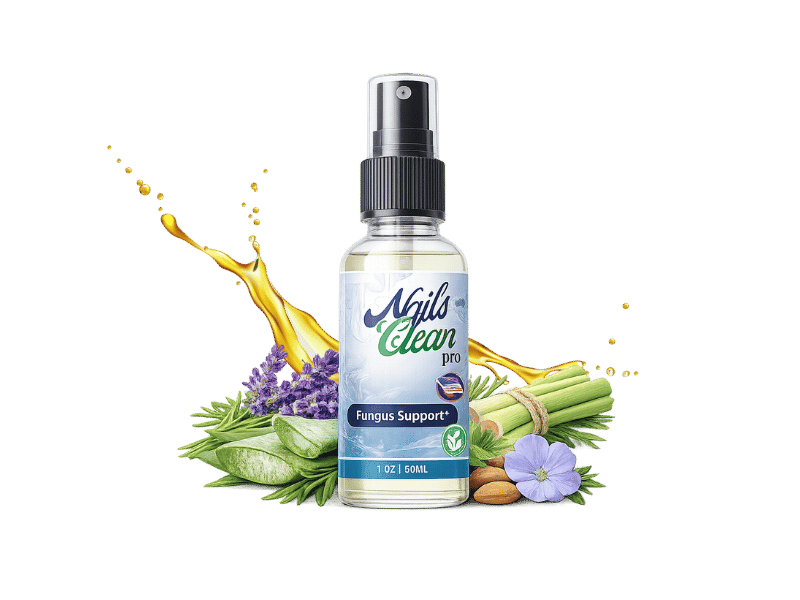
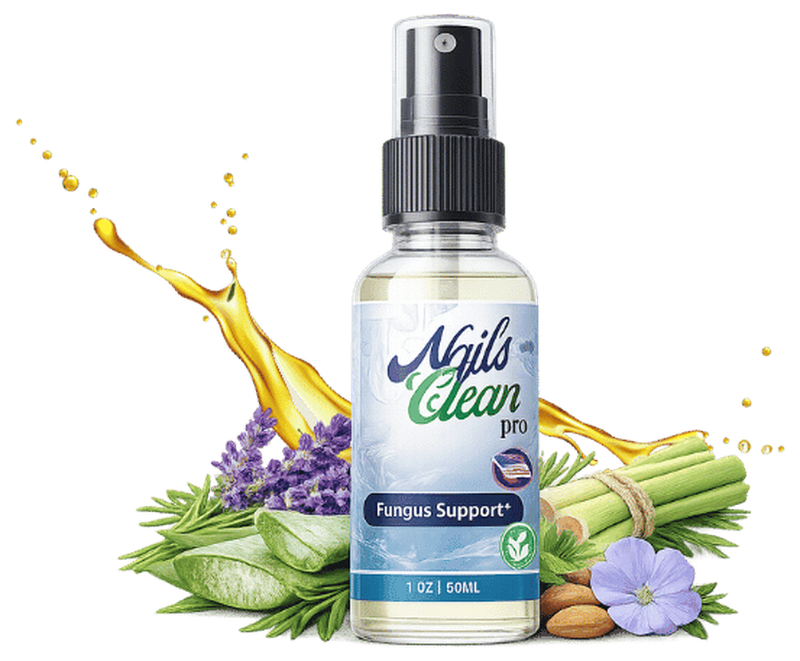
fix(nailscleanpro): ampliar tamanho e nitidez das imagens do produto (hero e kit)

diff --git a/assets/css/products/nailscleanpro.css b/assets/css/products/nailscleanpro.css
@@ -10,3 +10,71 @@
   --cta-hover-2: #F9C016;
   --badge-border: rgba(249, 192, 22, 0.6);
 }
+
+/* Dimensões e destaque visual aprimorado para o produto NailsCleanPro */
+.hero-image {
+  padding: 30px 0 20px;
+  min-height: 420px;
+  display: flex;
+  align-items: center;
+  justify-content: center;
+}
+.hero-image a {
+  display: inline-flex;
+  justify-content: center;
+  align-items: center;
+  max-width: 100%;
+}
+.hero-image img {
+  width: auto;
+  height: auto;
+  max-height: 440px;
+  max-width: min(520px, 90vw);
+  object-fit: contain;
+  filter: drop-shadow(0 10px 25px rgba(13, 43, 32, 0.12));
+  transition: transform 0.3s ease;
+}
+.hero-image img:hover {
+  transform: scale(1.03);
+}
+
+/* Imagem do Kit Oficial (6 frascos) com proporção nobre e nítida */
+.inline-figure {
+  text-align: center;
+  padding: 24px 20px 35px;
+}
+.inline-figure a {
+  display: inline-block;
+  max-width: 100%;
+}
+.inline-figure img {
+  max-width: 580px;
+  width: 100%;
+  height: auto;
+  margin: 0 auto;
+  filter: drop-shadow(0 12px 28px rgba(13, 43, 32, 0.15));
+  border-radius: 12px;
+  transition: transform 0.3s ease;
+}
+.inline-figure img:hover {
+  transform: scale(1.02);
+}
+
+@media (max-width: 767px) {
+  .hero-image {
+    padding: 16px 0 10px;
+    min-height: 0;
+  }
+  .hero-image img {
+    width: 82%;
+    max-width: 330px;
+    max-height: 340px;
+  }
+  .inline-figure {
+    padding: 15px 15px 25px;
+  }
+  .inline-figure img {
+    max-width: 100%;
+    width: 100%;
+  }
+}

diff --git a/reviews/nailscleanpro/index.html b/reviews/nailscleanpro/index.html
@@ -21,7 +21,7 @@
 <link rel="preconnect" href="https://fonts.gstatic.com" crossorigin>
 <link href="https://fonts.googleapis.com/css2?family=Montserrat:wght@400;700&family=Poppins:wght@400;600;700&family=Roboto:wght@400;700&display=swap" rel="stylesheet">
 <link rel="stylesheet" href="../../assets/css/reviews.css">
-<link rel="stylesheet" href="../../assets/css/products/nailscleanpro.css?v=1790085000">
+<link rel="stylesheet" href="../../assets/css/products/nailscleanpro.css?v=1791058641">
 <style>
 /* Tokens oficiais NailsCleanPro injetados inline para carregamento imediato a prova de cache */
 :root {
